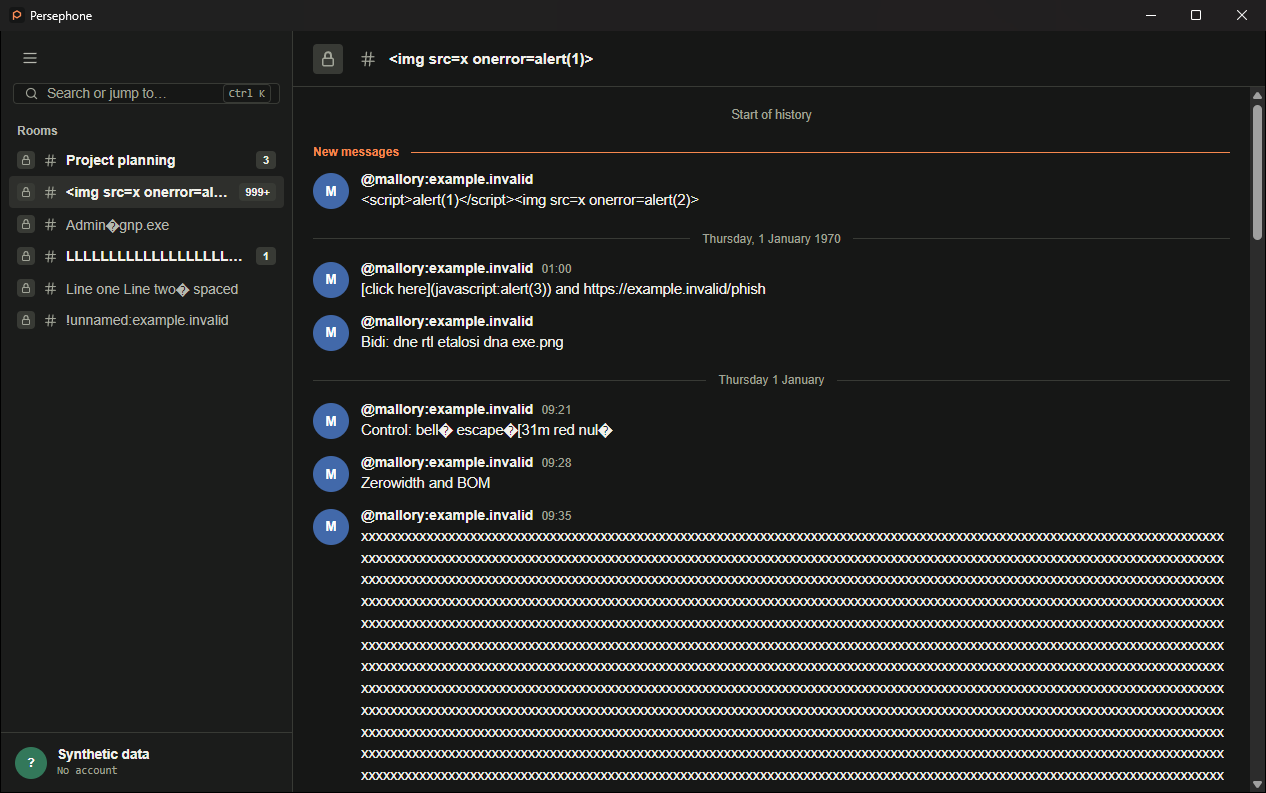
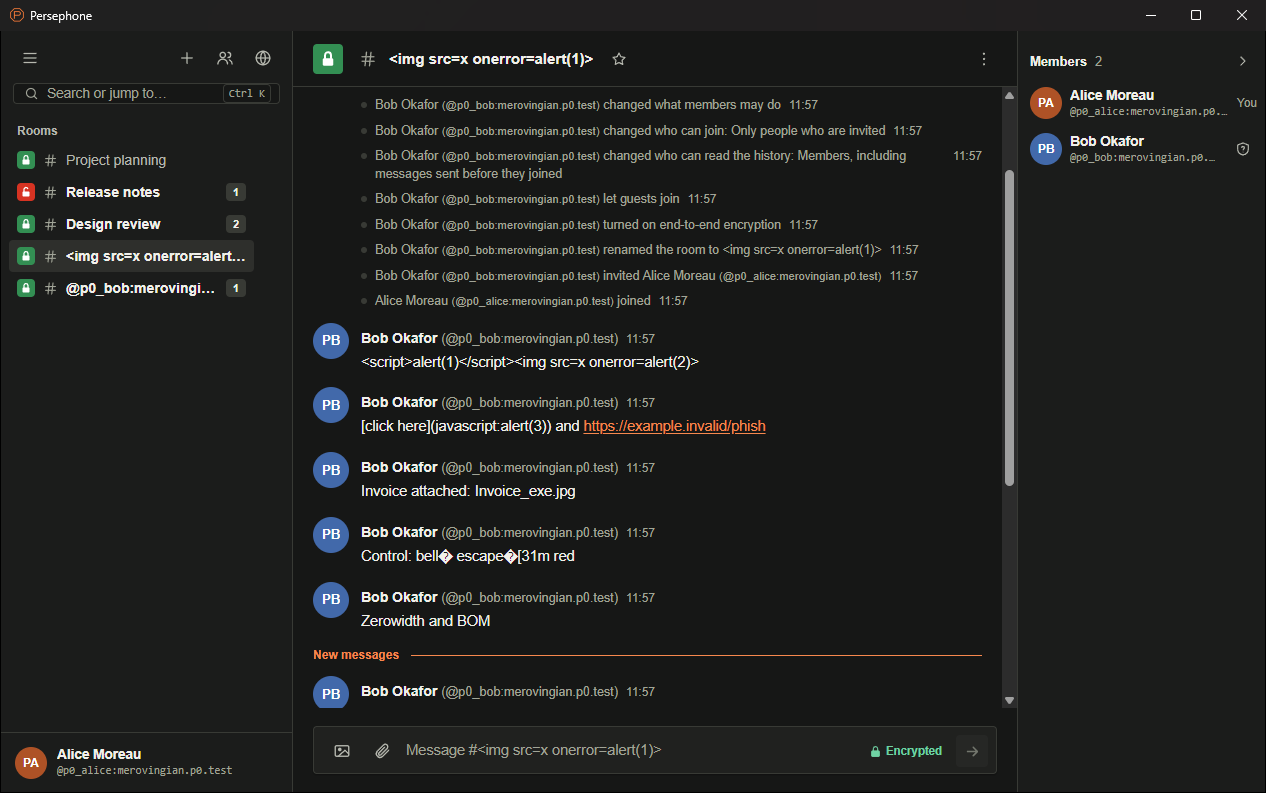
Show the signed-in app in the README screenshots
The README and project page showed demo mode, which hides the composer,
the members panel, room actions, encryption state and image messages.
The new captures are of a Windows development build signed in to a
disposable local Merovingian server, with synthetic accounts and
messages: an encrypted room with an image message, the hostile-content
room, Security & encryption settings, and the sign-in page. The README
shows all four; the project page keeps its two figures with updated
text.

diff --git a/site/index.html b/site/index.html
@@ -64,17 +64,17 @@
       <div class="wrap">
         <p class="eyebrow">01 / Screenshots</p>
         <h2>The app today</h2>
-        <p class="section-lede">A Windows development build in its demo mode, which shows synthetic rooms and stores nothing. The design can change before the first release.</p>
+        <p class="section-lede">A Windows development build signed in to a disposable local Merovingian server. The accounts, rooms and messages are synthetic. The design can change before the first release.</p>
         <div class="shots">
           <figure>
             <img src="screenshots/room-history.png" width="1266" height="793" loading="lazy"
-              alt="The Persephone window. The room list is on the left and the Project planning room is selected. Its message history shows alternating notes from Alice and Bob below a New messages marker.">
-            <figcaption>Room list and message history.</figcaption>
+              alt="The Persephone window. The room list is on the left and the encrypted Project planning room is open. Its message history shows a conversation between Alice and Bob and an image of a beta schedule. The two members are on the right.">
+            <figcaption>An encrypted room with text and an image message.</figcaption>
           </figure>
           <figure>
             <img src="screenshots/hostile-content.png" width="1266" height="793" loading="lazy"
-              alt="A test room whose name is an HTML image tag. Its messages contain a script tag, a javascript: link, a right-to-left override, control characters and a very long body. Each one shows as plain text.">
-            <figcaption>Hostile names and messages stay inert text: no markup renders, and no link or script runs.</figcaption>
+              alt="A room whose name is an HTML image tag. Its messages contain a script tag, a javascript: link, a right-to-left override, control characters and zero-width characters. Each one shows as plain text.">
+            <figcaption>Hostile names and messages stay inert text: no markup renders, and no script or javascript: link runs.</figcaption>
           </figure>
         </div>
       </div>

diff --git a/README.md b/README.md
@@ -17,20 +17,36 @@ Project page: <https://omg-software.github.io/Persephone/> (source in
 
 ## Screenshots
 
-A Windows development build in demo mode (`--demo`), which shows synthetic
-rooms and stores nothing.
+A Windows development build signed in to a disposable local Merovingian
+server. The accounts, rooms and messages are synthetic.
 
-![The Persephone window with the room list on the left and the message history
-of the Project planning room on the right](site/screenshots/room-history.png)
+An encrypted room with text and an image message. The room list shows each
+room's encryption and unread count, and the members are on the right.
+
+![The Persephone window. The room list is on the left, the encrypted Project
+planning room is open in the middle with a conversation between Alice and Bob
+and an image of a beta schedule, and the two members are on the right](site/screenshots/room-history.png)
 
 Hostile room names and messages stay inert text. The markup and the
 `javascript:` link below do not run. The right-to-left override still
 reverses its own line, but bidirectional isolation keeps it out of the text
 around it.
 
-![A test room whose name is an HTML image tag, with messages that contain a
-script tag, a javascript: link, a right-to-left override and control
-characters, each shown as plain text](site/screenshots/hostile-content.png)
+![A room whose name is an HTML image tag, with messages that contain a script
+tag, a javascript: link, a right-to-left override and control characters, each
+shown as plain text](site/screenshots/hostile-content.png)
+
+Settings, Security & encryption, after setting up encryption: cross-signing
+is ready, this device is verified and recovery is set up.
+
+![The Security and encryption settings page with three status cards: cross-signing
+ready, this device verified, and recovery set up](site/screenshots/security-settings.png)
+
+The sign-in page. Persephone asks for the username and password in a separate
+Windows window, so the page never sees the password.
+
+![The sign-in page with the matrix.org server selected, a Continue button, a
+single sign-on button and a link to create an account](site/screenshots/sign-in.png)
 
 ## Status
 
